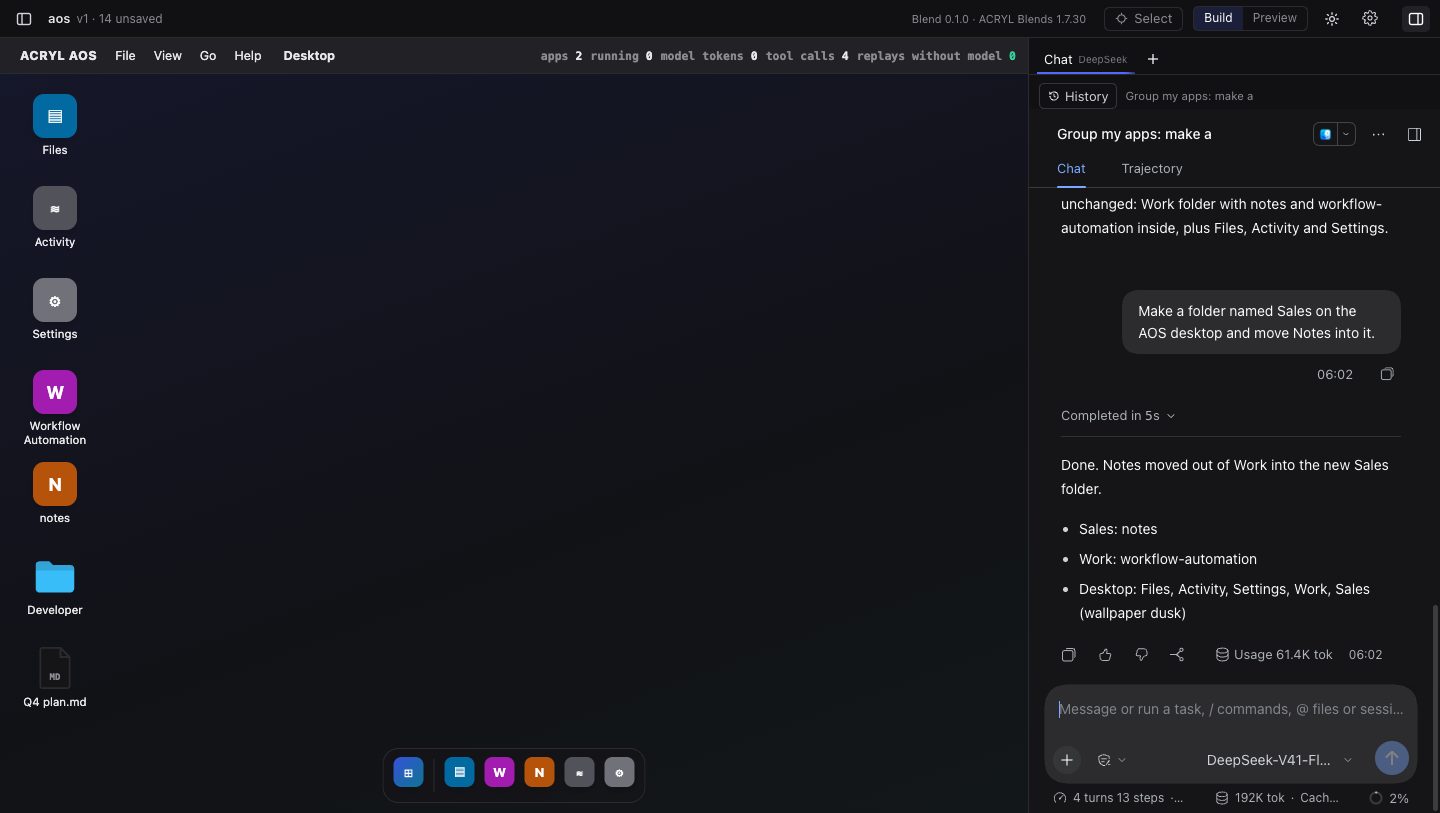
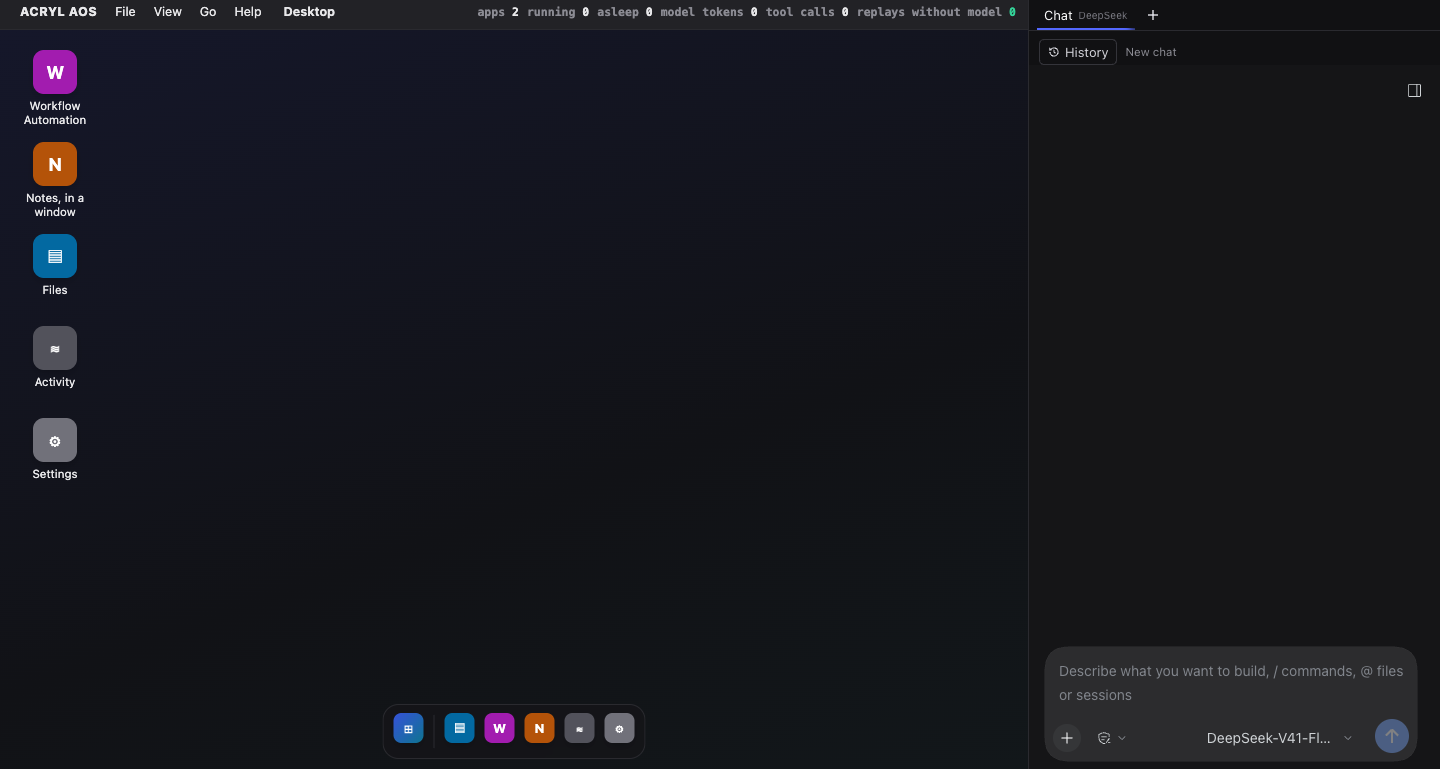
feat(home): ACRYL AOS 0.1.7 - the registry screenshot, cropped to the app, and the version
Use the registry's current AOS screenshot (the v0.1.7 entry) on the home, with
the host's version bar cropped so the page states 0.1.7 rather than the older
build in the screenshot. The caption and the 01 System callout name 0.1.7 and
ACRYL Blends 1.7.31.

diff --git a/src/pages/Home.tsx b/src/pages/Home.tsx
@@ -58,11 +58,11 @@ export default function Home() {
   usePageMeta("AI development framework", "Compose stable software from Cordis plugins. Start with a Blend, grow it in place, and publish what works. ACRYL AOS is the 01 System Blend.");
   return <SiteLayout>
     <section className="relative overflow-hidden border-b border-border"><div className="geo-grid absolute inset-0 opacity-45"/><div className="relative mx-auto grid min-h-[calc(100vh-4rem)] max-w-[1440px] items-center gap-12 px-5 py-16 md:px-8 lg:grid-cols-[1.2fr_.8fr] lg:py-20"><div><Eyebrow>AI development framework · Based on Cordis</Eyebrow><h1 className="mt-6 max-w-4xl text-balance text-5xl font-semibold leading-[.98] tracking-normal sm:text-6xl lg:text-[4rem]">Everything is a plugin.<br/><span className="spectrum-text">Build from the inside out.</span></h1><p className="mt-7 max-w-xl text-2xl font-semibold leading-tight text-foreground">Let your users build the product they need.</p><p className="mt-3 max-w-xl text-lg leading-8 text-muted-foreground">Every ACRYL app has its own agent. Your users say &ldquo;add XYZ&rdquo;, and seconds later the change is live for them and their team. You keep shipping the foundation; they keep their layer.</p><p className="mt-5 max-w-xl text-lg leading-8 text-muted-foreground">An empty house with a builder living inside it - decide the walls and expansion after you move in. Pull a proven starting point, shape it inside the running instance, then publish what works. ACRYL Control Center, the store and launcher, is itself just one Blend. <Link to={blendPath("acryl.aos")} className="font-semibold text-foreground underline underline-offset-4">ACRYL AOS</Link>, the new 01 System Blend, is another: an agentic operating system for your apps. Yours can be the next.</p><div className="mt-9 flex flex-wrap gap-3"><Link to={blendPath(CORE_ID)} className="btn-primary">Get ACRYL Control Center <ArrowRight size={16}/></Link><Link to="/blends" className="btn-secondary">Browse Blends</Link><Link to="/docs" className="btn-secondary">Read the docs</Link></div><div className="mt-12 flex items-center gap-3 font-mono text-xs text-muted-foreground"><span className="h-px w-10 bg-border"/>OPEN SOURCE · COMPOSABLE · REVERSIBLE</div></div><LayerVisual/></div></section>
-    <section id="your-users" className="mx-auto max-w-[1440px] px-5 py-24 md:px-8"><div className="grid items-start gap-12 lg:grid-cols-[.9fr_1.1fr]"><div><SectionTitle eyebrow="How your users build" title="Five steps. Your foundation, their layer." intro="A prompt box inside the product instead of a feature request and six months of waiting. Each Blend in the store is such a foundation: make an app from it, or deploy it to WebBoxes.ai, and your users add their layer."/><div className="mt-8 flex flex-wrap gap-3"><Link to="/blends" className="btn-primary" data-test="make-an-app">Make an app <ArrowRight size={16}/></Link><a href="https://webboxes.ai/blueprints" className="btn-secondary" target="_blank" rel="noreferrer" data-test="deploy-webboxes">Deploy to WebBoxes.ai <ArrowRight size={15}/></a></div><p className="mt-8 max-w-xl text-sm leading-6 text-muted-foreground"><strong className="text-foreground">ACRYL AOS</strong>, the 01 System Blend, is the clearest example: a desktop, a dock and one chat that drives every app. A run can be saved as a workflow and repeated with no model call. <Link to={blendPath("acryl.aos")} className="font-semibold text-foreground underline underline-offset-4">See ACRYL AOS</Link>.</p></div><figure className="m-0 overflow-hidden rounded-md border border-border bg-surface"><Link to={blendPath("acryl.aos")} className="block"><img src="/img/home/acryl-aos.png" alt="ACRYL AOS: a desktop with app icons, a dock and one chat that drives every app" width={1440} height={813} loading="lazy" className="block aspect-video w-full bg-ink object-cover object-top"/></Link><figcaption className="border-t border-border px-4 py-3 font-mono text-xs text-muted-foreground">ACRYL AOS at 1440, from the real app: one chat made a Sales folder and moved Notes into it. Blends 1.7.30.</figcaption></figure></div><ol className="mt-14 grid gap-px border border-border bg-border sm:grid-cols-2 lg:grid-cols-5">{layerSteps.map((step, i) => <li key={step.title} className="bg-background p-6"><span className="font-mono text-xs text-accent-foreground">{String(i + 1).padStart(2, "0")}</span><h3 className="mt-8 text-lg font-semibold leading-snug">{step.title}</h3><p className="mt-3 text-sm leading-6 text-muted-foreground">{step.body}</p></li>)}</ol><p className="mt-10 max-w-3xl text-2xl font-semibold leading-snug md:text-3xl">Stop selling features. <span className="spectrum-text">Sell a platform your customers finish themselves.</span></p></section>
+    <section id="your-users" className="mx-auto max-w-[1440px] px-5 py-24 md:px-8"><div className="grid items-start gap-12 lg:grid-cols-[.9fr_1.1fr]"><div><SectionTitle eyebrow="How your users build" title="Five steps. Your foundation, their layer." intro="A prompt box inside the product instead of a feature request and six months of waiting. Each Blend in the store is such a foundation: make an app from it, or deploy it to WebBoxes.ai, and your users add their layer."/><div className="mt-8 flex flex-wrap gap-3"><Link to="/blends" className="btn-primary" data-test="make-an-app">Make an app <ArrowRight size={16}/></Link><a href="https://webboxes.ai/blueprints" className="btn-secondary" target="_blank" rel="noreferrer" data-test="deploy-webboxes">Deploy to WebBoxes.ai <ArrowRight size={15}/></a></div><p className="mt-8 max-w-xl text-sm leading-6 text-muted-foreground"><strong className="text-foreground">ACRYL AOS 0.1.7</strong>, the 01 System Blend, is the clearest example: a desktop, a dock and one chat that drives every app. A run can be saved as a workflow and repeated with no model call. <Link to={blendPath("acryl.aos")} className="font-semibold text-foreground underline underline-offset-4">See ACRYL AOS</Link>.</p></div><figure className="m-0 overflow-hidden rounded-md border border-border bg-surface"><Link to={blendPath("acryl.aos")} className="block"><img src="/img/home/acryl-aos.png" alt="ACRYL AOS: a desktop with app icons, a dock and one chat that drives every app" width={1440} height={769} loading="lazy" className="block h-auto w-full bg-ink"/></Link><figcaption className="border-t border-border px-4 py-3 font-mono text-xs text-muted-foreground">ACRYL AOS 0.1.7 at 1440, from the real app: one chat made a Sales folder and moved Notes into it. ACRYL Blends 1.7.31.</figcaption></figure></div><ol className="mt-14 grid gap-px border border-border bg-border sm:grid-cols-2 lg:grid-cols-5">{layerSteps.map((step, i) => <li key={step.title} className="bg-background p-6"><span className="font-mono text-xs text-accent-foreground">{String(i + 1).padStart(2, "0")}</span><h3 className="mt-8 text-lg font-semibold leading-snug">{step.title}</h3><p className="mt-3 text-sm leading-6 text-muted-foreground">{step.body}</p></li>)}</ol><p className="mt-10 max-w-3xl text-2xl font-semibold leading-snug md:text-3xl">Stop selling features. <span className="spectrum-text">Sell a platform your customers finish themselves.</span></p></section>
     <section id="primitives" className="mx-auto max-w-[1440px] px-5 py-24 md:px-8"><SectionTitle eyebrow="Framework primitives" title="Everything you need to grow a Blend" intro="Small, legible pieces from the first plugin to a complete software system. Each one names the command or the page that proves it."/><div className="mt-12 grid border-l border-t border-border md:grid-cols-2 lg:grid-cols-3 xl:grid-cols-4">{features.map(({ icon: Icon, title, body, proof, to }, i) => <div key={title} className="group border-b border-r border-border p-7 transition-colors hover:bg-surface"><div className="flex items-start justify-between"><Icon size={20} strokeWidth={1.6}/><span className="font-mono text-[10px] text-muted-foreground">0{i + 1}</span></div><h3 className="mt-8 text-lg font-semibold">{title}</h3><p className="mt-2 text-sm leading-6 text-muted-foreground">{body}</p>{to ? <Link to={to} className="mt-4 inline-flex items-center gap-1.5 font-mono text-[11px] text-accent-foreground underline underline-offset-4">{proof} <ArrowRight size={11}/></Link> : <code className="mt-4 block font-mono text-[11px] leading-relaxed break-words text-muted-foreground">{proof}</code>}</div>)}</div></section>
     <section className="border-y border-border bg-surface"><div className="mx-auto max-w-[1440px] px-5 py-24 md:px-8"><SectionTitle eyebrow="Readable by design" title="The atom and the recipe" intro="A plugin does one thing. A Blend names the things that become one working instance."/><div className="mt-12 grid gap-5 lg:grid-cols-2"><CodeBlock label="plugins/hello/index.ts" code={pluginCode}/><CodeBlock label="blend.yaml" code={yamlCode}/></div><p className="mt-6 text-sm text-muted-foreground">That is the whole plugin: a name, what it needs, and an apply. <Link to="/docs/cordis/acryl-in-a-cordis-app" className="font-semibold text-foreground underline underline-offset-4">Acryl in a Cordis app</Link> explains the two layers, and what happens to the routes when the plugin unloads.</p></div></section>
     <section className="mx-auto max-w-[1440px] px-5 py-24 md:px-8"><SectionTitle eyebrow="A short path" title="Pull. Grow. Publish."/><div className="mt-12 grid gap-px bg-border lg:grid-cols-3">{[["01", "Pull", "Choose a starting point and bring up a working Cordis instance."], ["02", "Grow", "Add and refine plugins inside the instance with hot reload."], ["03", "Publish", "Graduate a plugin to the market or the full composition to Blends."]].map(([n, t, b]) => <div key={t} className="bg-background p-8"><span className="font-mono text-xs text-accent-foreground">{n}</span><h3 className="mt-12 text-3xl font-semibold">{t}</h3><p className="mt-3 leading-7 text-muted-foreground">{b}</p></div>)}</div></section>
-    <section className="border-y border-border bg-surface text-foreground"><div className="mx-auto max-w-[1440px] px-5 py-24 md:px-8"><SectionTitle eyebrow="One of a hundred categories" title="Find the right shape for the work" intro="Browse a stable taxonomy spanning systems, agents, infrastructure and everything between."/><div className="mt-12 grid gap-px bg-border sm:grid-cols-2 lg:grid-cols-4">{categories.slice(0, 8).map((c, i) => <Link key={c.slug} to={`/blends/${c.slug}`} className="group bg-surface p-6 hover:bg-muted"><span className="font-mono text-[10px] text-muted-foreground">{String(i + 1).padStart(2, "0")}</span><h3 className="mt-8 text-xl font-semibold">{c.name}</h3><p className="mt-2 text-sm text-muted-foreground">{c.subs.slice(0, 2).map((s) => s.name).join(" · ")}</p><ArrowRight className="mt-7 transition-transform group-hover:translate-x-1" size={16}/></Link>)}</div><div className="mt-8 flex flex-wrap items-center justify-between gap-4 border border-border bg-background p-5"><p className="text-sm text-muted-foreground"><strong className="text-foreground">01 System: ACRYL AOS</strong> is in the store: an agentic operating system with a desktop, a dock and one chat that drives every app.</p><Link to={blendPath("acryl.aos")} className="inline-flex items-center gap-2 text-sm font-semibold">See ACRYL AOS <ArrowRight size={15}/></Link></div><Link to="/blends" className="mt-8 inline-flex items-center gap-2 text-sm font-semibold">Explore all 100 categories <ArrowRight size={15}/></Link></div></section>
+    <section className="border-y border-border bg-surface text-foreground"><div className="mx-auto max-w-[1440px] px-5 py-24 md:px-8"><SectionTitle eyebrow="One of a hundred categories" title="Find the right shape for the work" intro="Browse a stable taxonomy spanning systems, agents, infrastructure and everything between."/><div className="mt-12 grid gap-px bg-border sm:grid-cols-2 lg:grid-cols-4">{categories.slice(0, 8).map((c, i) => <Link key={c.slug} to={`/blends/${c.slug}`} className="group bg-surface p-6 hover:bg-muted"><span className="font-mono text-[10px] text-muted-foreground">{String(i + 1).padStart(2, "0")}</span><h3 className="mt-8 text-xl font-semibold">{c.name}</h3><p className="mt-2 text-sm text-muted-foreground">{c.subs.slice(0, 2).map((s) => s.name).join(" · ")}</p><ArrowRight className="mt-7 transition-transform group-hover:translate-x-1" size={16}/></Link>)}</div><div className="mt-8 flex flex-wrap items-center justify-between gap-4 border border-border bg-background p-5"><p className="text-sm text-muted-foreground"><strong className="text-foreground">01 System: ACRYL AOS 0.1.7</strong> is in the store: an agentic operating system with a desktop, a dock and one chat that drives every app.</p><Link to={blendPath("acryl.aos")} className="inline-flex items-center gap-2 text-sm font-semibold">See ACRYL AOS <ArrowRight size={15}/></Link></div><Link to="/blends" className="mt-8 inline-flex items-center gap-2 text-sm font-semibold">Explore all 100 categories <ArrowRight size={15}/></Link></div></section>
     <section className="mx-auto max-w-[1440px] px-5 py-16 md:px-8"><div className="grid items-center gap-8 border-l-2 border-spectrum-start bg-surface px-7 py-10 md:grid-cols-[1fr_auto]"><div><Eyebrow>Open core, human support</Eyebrow><h2 className="mt-3 text-2xl font-semibold">Open source, built by WebBoxes.</h2><p className="mt-2 text-muted-foreground">Consulting and private registries for teams building proprietary systems.</p></div><Link to="/ecosystem/business-model" className="btn-secondary">How the model works <ArrowRight size={15}/></Link></div></section>
   </SiteLayout>;
 }
